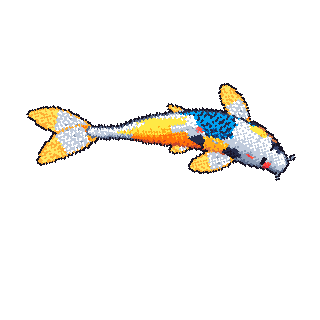
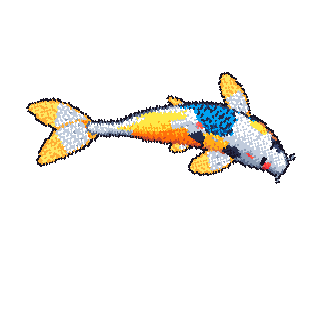
Make floating koi larger and fuller

Changed region(s): [[0.0625, 0.2188, 0.9062, 0.5938]]

diff --git a/src/components/floating-koi.tsx b/src/components/floating-koi.tsx
@@ -4,10 +4,10 @@ import { useCallback, useEffect, useRef, useState } from "react";
 import { useReducedMotion } from "framer-motion";
 import { KOI_VERSION } from "@/generated/koi-version";
 
-const SIZE = 208;
+const SIZE = 240;
 const BODY_X = SIZE * 0.5;
 const BODY_Y = SIZE * 0.5;
-const FOLLOW_DISTANCE = 88;
+const FOLLOW_DISTANCE = 102;
 const ART_SIZE = 320;
 const FRAME_COUNT = 24;
 const SHEET_COLUMNS = 6;
@@ -107,8 +107,8 @@ export function FloatingKoi() {
     };
 
     const keepInView = () => {
-      bodyX = clamp(bodyX, 70, Math.max(70, window.innerWidth - 70));
-      bodyY = clamp(bodyY, 70, Math.max(70, window.innerHeight - 70));
+      bodyX = clamp(bodyX, 100, Math.max(100, window.innerWidth - 100));
+      bodyY = clamp(bodyY, 100, Math.max(100, window.innerHeight - 100));
       place();
     };
 
@@ -214,7 +214,7 @@ export function FloatingKoi() {
     <>
       <div
         ref={fish}
-        className="pointer-events-none fixed left-0 top-0 z-20 w-52 opacity-0"
+        className="pointer-events-none fixed left-0 top-0 z-20 w-60 opacity-0"
         style={{ transformOrigin: `${BODY_X}px ${BODY_Y}px` }}
       >
         <button

diff --git a/scripts/build-koi-swim.py b/scripts/build-koi-swim.py
@@ -29,6 +29,9 @@ def face_right(frame):
             (round(frame.width * scale), round(frame.height * scale)),
             Image.Resampling.NEAREST,
         )
+    frame = frame.resize(
+        (frame.width, round(frame.height * 1.14)), Image.Resampling.NEAREST
+    )
     alpha = frame.getchannel("A")
     head_ys = [
         y
@@ -99,7 +102,7 @@ def main():
     make_pose(artwork).save(STILL)
     VERSION.parent.mkdir(parents=True, exist_ok=True)
     VERSION.write_text(
-        f'export const KOI_VERSION = "{sha256(SOURCE.read_bytes()).hexdigest()[:12]}";\n'
+        f'export const KOI_VERSION = "{sha256(SHEET.read_bytes()).hexdigest()[:12]}";\n'
     )
     print(f"Wrote {OUTPUT} ({len(frames)} frames)")
 
